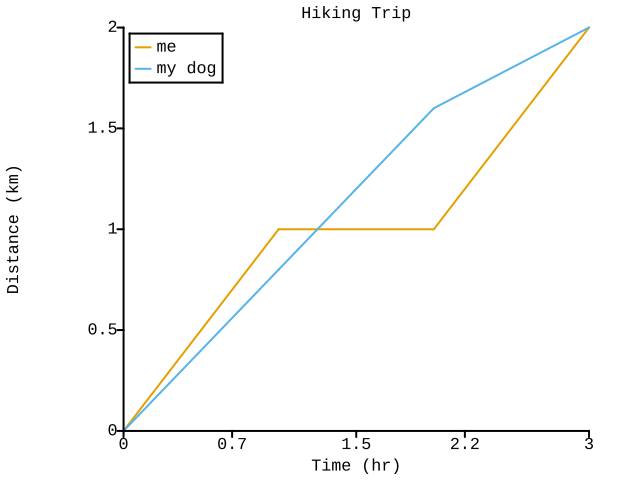
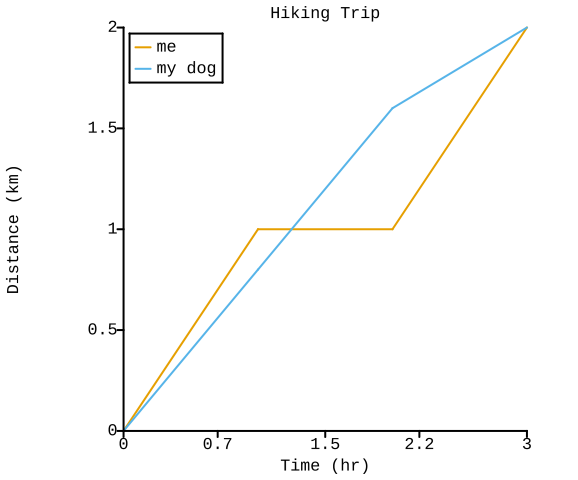
Add legend_location::outside_right, compute width

diff --git a/coloring.cpp b/coloring.cpp
@@ -3313,6 +3313,14 @@ static void draw_legend(
         view_box.lower_left()
         + float_vec(plot_breathing_room, plot_breathing_room)
         + float_vec(extents.x(), extents.y()));
+  } else if (data.legend_location == legend_location::outside_right) {
+    box = float_box(
+        view_box.upper_right()
+        + float_vec(plot_breathing_room, 0)
+        + float_vec(0, -extents.y()),
+        view_box.upper_right()
+        + float_vec(plot_breathing_room, 0)
+        + float_vec(extents.x(), 0));
   } else {
     throw std::logic_error("unhandled legend_location option");
   }
@@ -3359,7 +3367,6 @@ static void scale_axes(plot_data& data)
 void plot(
     std::filesystem::path const& pngpath,
     plot_data& data,
-    unsigned width,
     unsigned height)
 {
   int i = 0;
@@ -3370,30 +3377,37 @@ void plot(
     }
   }
   scale_axes(data);
-  coloring::canvas canvas(width, height, white);
   float_box const data_box = compute_bounding_box(data);
   float_vec const data_extents = data_box.extents();
-  float constexpr view_xmin = plot_breathing_room
-    + plot_text_height
-    + plot_breathing_room
-    + tick_label_width
-    + plot_breathing_room;
-  float const view_xmax = width
-    - plot_breathing_room
-    - tick_label_width / 2;
   float constexpr view_ymin = plot_breathing_room
     + plot_text_height
     + plot_breathing_room
     + plot_text_height
     + plot_breathing_room;
+  float constexpr view_xmin = plot_breathing_room
+    + plot_text_height
+    + plot_breathing_room
+    + tick_label_width
+    + plot_breathing_room;
   float const view_ymax = height
     - plot_breathing_room
     - plot_text_height
     - plot_breathing_room;
+  float const view_yextent = view_ymax - view_ymin;
+  float const view_xmax = view_xmin + view_yextent;
   float_box const view_box(
       float_vec(view_xmin, view_ymin),
       float_vec(view_xmax, view_ymax));
   float_vec const view_extents = view_box.extents();
+  float xmax;
+  if (data.legend_location == legend_location::outside_right) {
+    float_vec const legend_extents = compute_legend_extents(data);
+    xmax = view_xmax + plot_breathing_room + legend_extents.x() + plot_breathing_room;
+  } else {
+    xmax = view_xmax + plot_breathing_room + tick_label_width / 2;
+  }
+  unsigned width = unsigned(std::ceil(xmax));
+  coloring::canvas canvas(width, height, white);
   for (auto& group : data.groups) {
     draw_group(canvas, view_box, data_box, group);
   }

diff --git a/coloring.hpp b/coloring.hpp
@@ -292,7 +292,8 @@ enum class legend_location {
   upper_left,
   upper_right,
   lower_left,
-  lower_right
+  lower_right,
+  outside_right
 };
 
 enum class axis_scale {
@@ -316,7 +317,6 @@ class plot_data {
 void plot(
     std::filesystem::path const& pngpath,
     plot_data& data,
-    unsigned width = 640,
     unsigned height = 480);
 
 }
